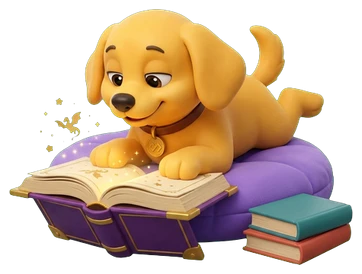
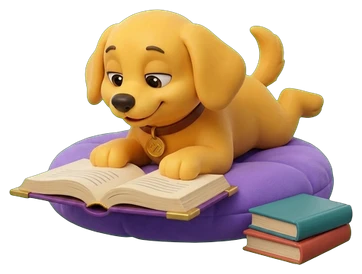
docs(storybook): fix the open book in the reading Patchy art
The book read as pages on top of a box. It now lies flat and open on
the cushion, and the dragon, stars and glow are gone.

diff --git a/packages/storybook/stories/reading-reminder-hero/3-DevSpec.stories.tsx b/packages/storybook/stories/reading-reminder-hero/3-DevSpec.stories.tsx
@@ -560,7 +560,7 @@ export const DevSpec: StoryObj = {
       <Section id="art" title="9. Art">
         <List
           items={[
-            'Reading Patchy lying on a cushion with a fantasy book, made with Agent Smith; on-model against patchy-waiting.',
+            'Reading Patchy lying on a cushion with an open book, made with Agent Smith; on-model against patchy-waiting.',
             <>
               Upload it to media.daily.dev and add{' '}
               <Code>cloudinaryPatchyReading</Code> to <Code>lib/image.ts</Code>.
